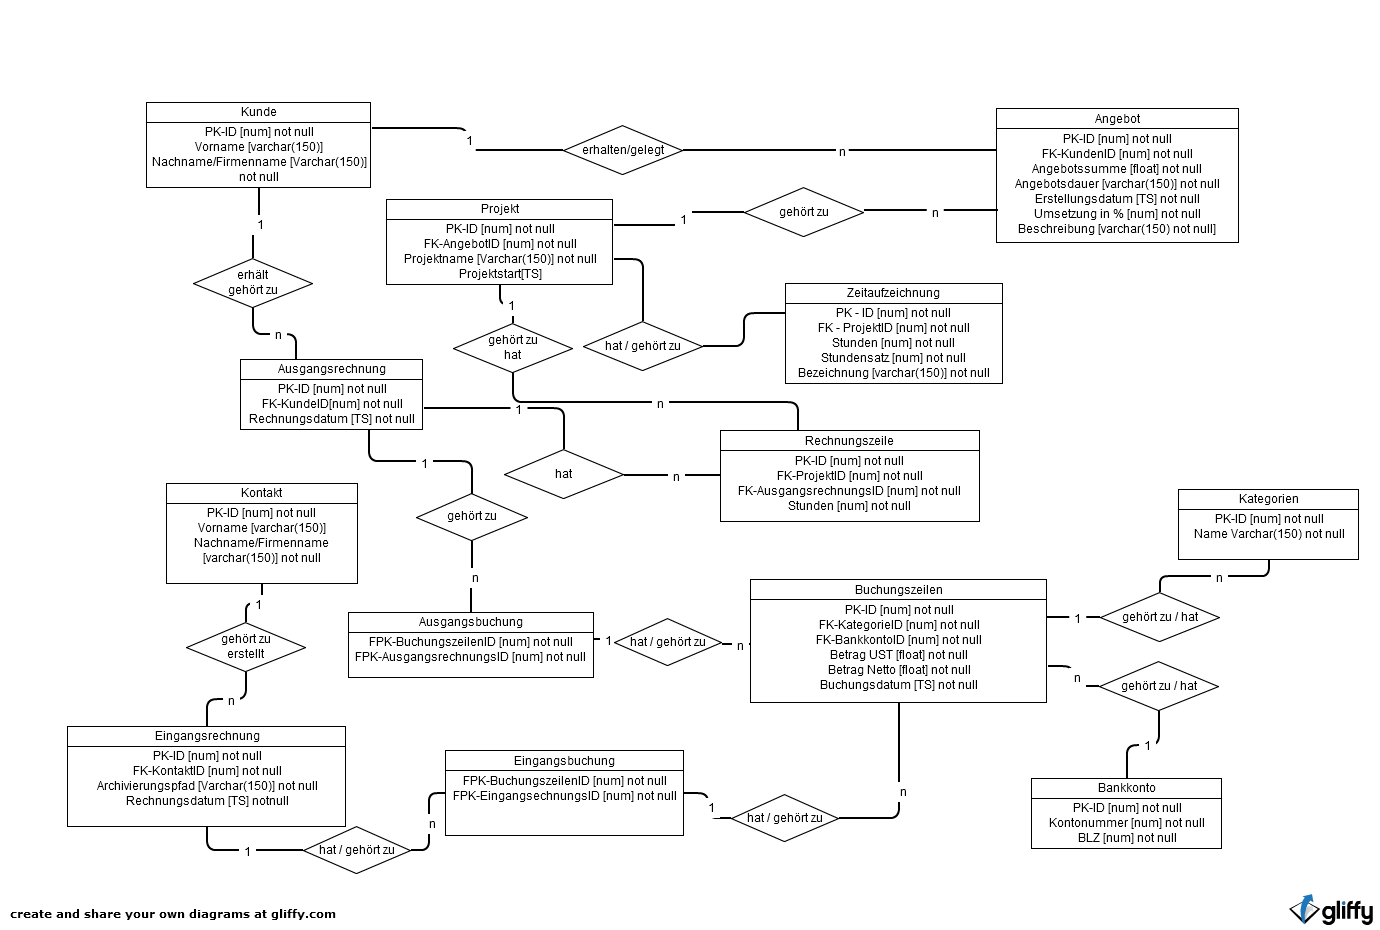
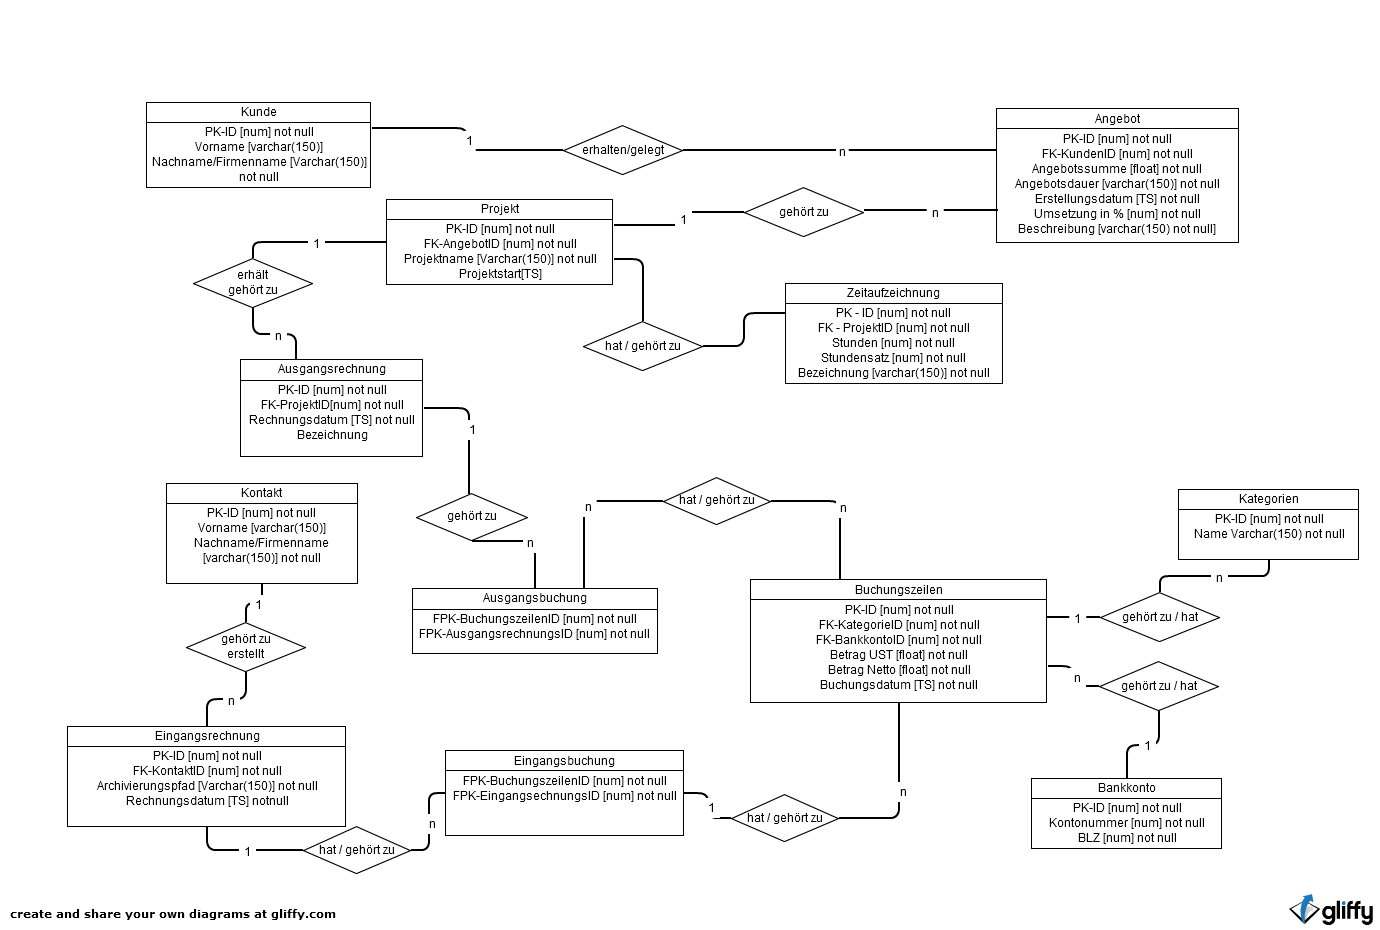
Implements GUI logic for saving a new Ausgangsrechnung to the database

diff --git a/EPU-Backoffice/EPU-Backoffice Panels/rechnungsTab.Designer.cs b/EPU-Backoffice/EPU-Backoffice Panels/rechnungsTab.Designer.cs
@@ -33,7 +33,7 @@
             this.rechnungAusgangTab = new System.Windows.Forms.TabPage();
             this.unpaidBalanceTextBox = new System.Windows.Forms.TextBox();
             this.label35 = new System.Windows.Forms.Label();
-            this.ausgangsrechnungComboBox = new System.Windows.Forms.ComboBox();
+            this.projekteComboBox = new System.Windows.Forms.ComboBox();
             this.ausgangsrechnungDataGridView = new System.Windows.Forms.DataGridView();
             this.ZeitID = new System.Windows.Forms.DataGridViewTextBoxColumn();
             this.ProjektID = new System.Windows.Forms.DataGridViewTextBoxColumn();
@@ -92,6 +92,7 @@
             this.button6 = new System.Windows.Forms.Button();
             this.dateTimePicker5 = new System.Windows.Forms.DateTimePicker();
             this.dateTimePicker4 = new System.Windows.Forms.DateTimePicker();
+            this.ausgangsrechnungMsgLabel = new System.Windows.Forms.Label();
             this.rechnungsTabControl.SuspendLayout();
             this.rechnungAusgangTab.SuspendLayout();
             ((System.ComponentModel.ISupportInitialize)(this.ausgangsrechnungDataGridView)).BeginInit();
@@ -119,9 +120,10 @@
             // rechnungAusgangTab
             // 
             this.rechnungAusgangTab.BackColor = System.Drawing.Color.WhiteSmoke;
+            this.rechnungAusgangTab.Controls.Add(this.ausgangsrechnungMsgLabel);
             this.rechnungAusgangTab.Controls.Add(this.unpaidBalanceTextBox);
             this.rechnungAusgangTab.Controls.Add(this.label35);
-            this.rechnungAusgangTab.Controls.Add(this.ausgangsrechnungComboBox);
+            this.rechnungAusgangTab.Controls.Add(this.projekteComboBox);
             this.rechnungAusgangTab.Controls.Add(this.ausgangsrechnungDataGridView);
             this.rechnungAusgangTab.Controls.Add(this.rechnungstitelTextBox);
             this.rechnungAusgangTab.Controls.Add(this.createRechnungButton);
@@ -151,15 +153,15 @@
             this.label35.TabIndex = 8;
             this.label35.Text = "Offene Projekte";
             // 
-            // ausgangsrechnungComboBox
+            // projekteComboBox
             // 
-            this.ausgangsrechnungComboBox.FormattingEnabled = true;
-            this.ausgangsrechnungComboBox.Location = new System.Drawing.Point(20, 16);
-            this.ausgangsrechnungComboBox.Name = "ausgangsrechnungComboBox";
-            this.ausgangsrechnungComboBox.Size = new System.Drawing.Size(121, 21);
-            this.ausgangsrechnungComboBox.TabIndex = 7;
-            this.ausgangsrechnungComboBox.DropDown += new System.EventHandler(this.ausgangsrechnungComboBox_DropDown);
-            this.ausgangsrechnungComboBox.SelectedIndexChanged += new System.EventHandler(this.BindFromExistingZeitaufzeichnungen);
+            this.projekteComboBox.FormattingEnabled = true;
+            this.projekteComboBox.Location = new System.Drawing.Point(20, 16);
+            this.projekteComboBox.Name = "projekteComboBox";
+            this.projekteComboBox.Size = new System.Drawing.Size(121, 21);
+            this.projekteComboBox.TabIndex = 7;
+            this.projekteComboBox.DropDown += new System.EventHandler(this.ausgangsrechnungComboBox_DropDown);
+            this.projekteComboBox.SelectedIndexChanged += new System.EventHandler(this.BindFromExistingZeitaufzeichnungen);
             // 
             // ausgangsrechnungDataGridView
             // 
@@ -227,6 +229,7 @@
             this.createRechnungButton.TabIndex = 3;
             this.createRechnungButton.Text = "Rechnung erstellen";
             this.createRechnungButton.UseVisualStyleBackColor = true;
+            this.createRechnungButton.Click += new System.EventHandler(this.CreateAusgangsrechnung);
             // 
             // label7
             // 
@@ -692,6 +695,16 @@
             this.dateTimePicker4.Size = new System.Drawing.Size(200, 20);
             this.dateTimePicker4.TabIndex = 0;
             // 
+            // ausgangsrechnungMsgLabel
+            // 
+            this.ausgangsrechnungMsgLabel.AutoSize = true;
+            this.ausgangsrechnungMsgLabel.Location = new System.Drawing.Point(17, 160);
+            this.ausgangsrechnungMsgLabel.Name = "ausgangsrechnungMsgLabel";
+            this.ausgangsrechnungMsgLabel.Size = new System.Drawing.Size(76, 13);
+            this.ausgangsrechnungMsgLabel.TabIndex = 25;
+            this.ausgangsrechnungMsgLabel.Text = "MessageLabel";
+            this.ausgangsrechnungMsgLabel.Visible = false;
+            // 
             // rechnungsTab
             // 
             this.AutoScaleDimensions = new System.Drawing.SizeF(6F, 13F);
@@ -722,7 +735,7 @@
         private System.Windows.Forms.TabControl rechnungsTabControl;
         private System.Windows.Forms.TabPage rechnungAusgangTab;
         private System.Windows.Forms.Label label35;
-        private System.Windows.Forms.ComboBox ausgangsrechnungComboBox;
+        private System.Windows.Forms.ComboBox projekteComboBox;
         private System.Windows.Forms.DataGridView ausgangsrechnungDataGridView;
         private System.Windows.Forms.TextBox rechnungstitelTextBox;
         private System.Windows.Forms.Button createRechnungButton;
@@ -782,5 +795,6 @@
         private System.Windows.Forms.DataGridViewTextBoxColumn Bezeichnung;
         private System.Windows.Forms.DataGridViewTextBoxColumn Stunden;
         private System.Windows.Forms.DataGridViewTextBoxColumn Stundensatz;
+        private System.Windows.Forms.Label ausgangsrechnungMsgLabel;
     }
 }

diff --git a/EPU-Backoffice/EPU-Backoffice Panels/rechnungsTab.cs b/EPU-Backoffice/EPU-Backoffice Panels/rechnungsTab.cs
@@ -77,7 +77,7 @@ namespace EPU_Backoffice_Panels
 
                 try
                 {
-                    this.eingangsrechnung.KontaktID = GlobalActions.getIdFromCombobox(kontaktID, this.eingangsrechnungMsgLabel);
+                    this.eingangsrechnung.KontaktID = GlobalActions.GetIdFromCombobox(kontaktID, this.eingangsrechnungMsgLabel);
                 }
                 catch (InvalidInputException)
                 {
@@ -290,12 +290,12 @@ namespace EPU_Backoffice_Panels
         private void BindFromExistingZeitaufzeichnungen(object sender, EventArgs e)
         {
             // only if a value is selected
-            if (this.ausgangsrechnungComboBox.SelectedIndex > 0)
+            if (this.projekteComboBox.SelectedIndex > 0)
             {
                 List<ZeitaufzeichnungTable> results = new List<ZeitaufzeichnungTable>();
                 
                 // get projectID
-                int pID = GlobalActions.getIdFromCombobox(this.ausgangsrechnungComboBox.SelectedValue.ToString(), this.eingangsrechnungMsgLabel);
+                int pID = GlobalActions.GetIdFromCombobox(this.projekteComboBox.SelectedValue.ToString(), this.eingangsrechnungMsgLabel);
                 this.logger.Log(Logger.Level.Info, "Starts searching for Zeitauffassungen with project id " + pID);
 
                 ZeiterfassungsManager loader = new ZeiterfassungsManager();
@@ -326,6 +326,65 @@ namespace EPU_Backoffice_Panels
 
                     this.unpaidBalanceTextBox.Text = sum.ToString();
                 }
+            }
+        }
+
+        /// <summary>
+        /// Creates a new Ausgangsrechnung with the provided parameters
+        /// </summary>
+        /// <param name="sender">The sending button</param>
+        /// <param name="e">The EventArgs</param>
+        private void CreateAusgangsrechnung(object sender, EventArgs e)
+        {
+            AusgangsrechnungTable table = new AusgangsrechnungTable();
+
+            // Get values
+            int projektID = GlobalActions.GetIdFromCombobox(this.projekteComboBox.SelectedValue.ToString(), this.ausgangsrechnungMsgLabel);
+            string unpaidBalanceString = this.unpaidBalanceTextBox.Text;
+            string rechnungstitelString = this.rechnungstitelTextBox.Text;
+
+            double unpaidBalance;
+
+            // Validate values
+            IRule posintval = new PositiveIntValidator();
+            IRule posdoubval = new PositiveDoubleValidator();
+            IRule lnhsv = new LettersNumbersHyphenSpaceValidator();
+            IRule slv = new StringLength150Validator();
+
+            DataBindingFramework.BindFromInt(projektID.ToString(), "ProjektID", this.ausgangsrechnungMsgLabel, false, posintval);
+            unpaidBalance = DataBindingFramework.BindFromDouble(unpaidBalanceString, "Offener Betrag", this.ausgangsrechnungMsgLabel, false, posdoubval);
+            DataBindingFramework.BindFromString(rechnungstitelString, "Rechnungstitel", this.ausgangsrechnungMsgLabel, false, lnhsv, slv);
+
+            // return if errors occured
+            if (this.ausgangsrechnungMsgLabel.Visible)
+            {
+                return;
+            }
+
+            // no errors, send values to business layer
+            RechnungsManager saver = new RechnungsManager();
+
+            try
+            {
+                saver.CreateAusgangsrechnung(projektID, unpaidBalance, rechnungstitelString);
+            }
+            catch (InvalidInputException)
+            {
+                this.logger.Log(Logger.Level.Error, "The business layer returned the provided values for saving a new Ausgangsrechnung with an error.");
+            }
+            catch (SQLiteException ex)
+            {
+                this.logger.Log(Logger.Level.Error, "A serious problem with the database occured while trying to save a new Ausgangsrechnung.");
+                this.logger.Log(Logger.Level.Error, ex.Message);
+                this.ausgangsrechnungMsgLabel.Text = ex.Message;
+                this.ausgangsrechnungMsgLabel.ForeColor = Color.Red;
+                this.ausgangsrechnungMsgLabel.Show();
+            }
+
+            // show success message label (only if saving has been successful)
+            if (!this.ausgangsrechnungMsgLabel.Visible)
+            {
+                GlobalActions.ShowSuccessLabel(this.ausgangsrechnungMsgLabel);
             }
         }
     }

diff --git a/EPU-Backoffice/EPU-Backoffice Panels/Dal/DataBaseManager.cs b/EPU-Backoffice/EPU-Backoffice Panels/Dal/DataBaseManager.cs
@@ -38,9 +38,8 @@ namespace EPU_Backoffice_Panels.Dal
             sb.Append("CREATE TABLE IF NOT EXISTS Projekt (ID INTEGER NOT NULL PRIMARY KEY AUTOINCREMENT, AngebotID INTEGER NOT NULL, Projektname VARCHAR(150) NOT NULL, Projektstart DATETIME NOT NULL); ");
             sb.Append("CREATE TABLE IF NOT EXISTS Zeitaufzeichnung (ID INTEGER NOT NULL PRIMARY KEY AUTOINCREMENT, ProjektID INTEGER NOT NULL, Stunden INTEGER NOT NULL, Bezeichnung VARCHAR(150) NOT NULL, Stundensatz INTEGER NOT NULL); ");
             sb.Append("CREATE TABLE IF NOT EXISTS Angebot (ID INTEGER NOT NULL PRIMARY KEY AUTOINCREMENT, kundenID INTEGER NOT NULL, Angebotssumme FLOAT NOT NULL, Angebotsdauer DATETIME NOT NULL, Erstellungsdatum VARCHAR(150) NOT NULL, Umsetzung INTEGER NOT NULL, Beschreibung VARCHAR(150) NOT NULL); ");
-            sb.Append("CREATE TABLE IF NOT EXISTS Rechnungszeile (ID INTEGER NOT NULL PRIMARY KEY AUTOINCREMENT, ProjektID INTEGER NOT NULL, AusgangsrechnungsID INTEGER NOT NULL,BEzeichnung Varchar(150), Stunden INTEGER NOT NULL, Stundensatz FLOAT NOT NULL); ");
-            sb.Append("CREATE TABLE IF NOT EXISTS Ausgangsrechnung (ID INTEGER NOT NULL PRIMARY KEY AUTOINCREMENT, KundenID INTEGER NOT NULL, Rechnungsdatum TIMESTAMP NOT NULL, Bezeichnung VARCHAR(150) NOT NULL); ");
-            sb.Append("CREATE TABLE IF NOT EXISTS Ausgangsbuchung (BuchungszeilenID INTEGER NOT NULL, AusgangsrechnungsID INTEGER NOT NULL, PRIMARY KEY (BuchungszeilenID, AusgangsrechnungsID)); ");
+            sb.Append("CREATE TABLE IF NOT EXISTS Rechnungszeile (ID INTEGER NOT NULL PRIMARY KEY AUTOINCREMENT, ProjektID INTEGER NOT NULL, AusgangsrechnungsID INTEGER NOT NULL, Bezeichnung Varchar(150), Stunden INTEGER NOT NULL, Stundensatz FLOAT NOT NULL); ");
+            sb.Append("CREATE TABLE IF NOT EXISTS Ausgangsrechnung (ID INTEGER NOT NULL PRIMARY KEY AUTOINCREMENT, ProjektID INTEGER NOT NULL, Rechnungsdatum TIMESTAMP NOT NULL, Bezeichnung VARCHAR(150) NOT NULL); ");
             sb.Append("CREATE TABLE IF NOT EXISTS Eingangsrechnung (ID INTEGER NOT NULL PRIMARY KEY AUTOINCREMENT, KontaktID INTEGER NOT NULL, Rechnungsdatum TIMESTAMP NOT NULL, Archivierungspfad VARCHAR(150) NOT NULL, Bezeichnung VARCHAR(150) NOT NULL); ");
             sb.Append("CREATE TABLE IF NOT EXISTS Eingangsbuchung (BuchungszeilenID INTEGER NOT NULL, EingangsrechnungsID INTEGER NOT NULL, PRIMARY KEY (BuchungszeilenID, EingangsrechnungsID)); ");
             sb.Append("CREATE TABLE IF NOT EXISTS Buchungszeilen (ID INTEGER NOT NULL PRIMARY KEY AUTOINCREMENT, KategorieID INTEGER NOT NULL, BankkontoID INTEGER NOT NULL, BetragUST FLOAT NOT NULL, BetragNetto FLOAT NOT NULL, Buchungsdatum TIMESTAMP NOT NULL, Bezeichnung VARCHAR(150)); ");

diff --git a/EPU-Backoffice/EPU-Backoffice Panels/Dal/Tables/AusgangsrechnungTable.cs b/EPU-Backoffice/EPU-Backoffice Panels/Dal/Tables/AusgangsrechnungTable.cs
@@ -26,14 +26,14 @@ namespace EPU_Backoffice_Panels.Dal.Tables
             set { if (value >= 0) { id = value; } }
         }
 
-        private int kundenID;
+        private int projektID;
         /// <summary>
-        /// Gets or sets foreign key to table Kunde
+        /// Gets or sets unique ID of the connected project
         /// </summary>
-        public int KundenID
+        public int ProjektID
         {
-            get { return kundenID; }
-            set { if (value >= 0) { kundenID = value; } }
+            get { return projektID; }
+            set { if (value >= 0) { projektID = value; } }
         }
 
         private DateTime rechnungsdatum;
@@ -44,6 +44,16 @@ namespace EPU_Backoffice_Panels.Dal.Tables
         {
             get { return rechnungsdatum; }
             set { rechnungsdatum = value; }
+        }
+
+        private DateTime bezeichnung;
+        /// <summary>
+        /// Gets or sets the title of the Ausgangsrechnung
+        /// </summary>
+        public DateTime Bezeichnung
+        {
+            get { return bezeichnung; }
+            set { bezeichnung = value; }
         }
     }
 }

diff --git a/EPU-Backoffice/EPU-Backoffice Panels/BL/RechnungsManager.cs b/EPU-Backoffice/EPU-Backoffice Panels/BL/RechnungsManager.cs
@@ -143,5 +143,17 @@ namespace EPU_Backoffice_Panels.BL
                 throw; 
             }
         }
+
+        /// <summary>
+        /// Saves a new Ausgangsrechnung within the database
+        /// </summary>
+        /// <param name="projektID">The connected ProjektID</param>
+        /// <param name="unpaidBalance">The amount of money which the Ausgangsrechnung shall include</param>
+        /// <param name="rechnungstitelString">The title of the Ausgangsrechnung</param>
+        public void CreateAusgangsrechnung(int projektID, double unpaidBalance, string rechnungstitelString)
+        { 
+            // validate input
+            //IRule 
+        }
     }
 }

diff --git a/EPU-Backoffice/EPU-Backoffice Panels/GlobalActions.cs b/EPU-Backoffice/EPU-Backoffice Panels/GlobalActions.cs
@@ -122,7 +122,7 @@ namespace EPU_Backoffice_Panels
         /// 
         /// </summary>
         /// <returns></returns>
-        public static int getIdFromCombobox(string data, Label messages)
+        public static int GetIdFromCombobox(string data, Label messages)
         {
             int id;   
             // if no Kunde has been chosen, set kundenID to -1, which indicates, that it shall not be searched for a certain Kunde

diff --git a/EPU-Backoffice/EPU-Backoffice Panels/projektTab.cs b/EPU-Backoffice/EPU-Backoffice Panels/projektTab.cs
@@ -166,7 +166,7 @@ namespace EPU_Backoffice_Panels
             int id = -1;
             try
             {
-                id = GlobalActions.getIdFromCombobox(kundenID, projektSuchenMessageLabel);
+                id = GlobalActions.GetIdFromCombobox(kundenID, projektSuchenMessageLabel);
                 logger.Log(Logger.Level.Info, "kundenid in projekt search: " + id);
             }
             catch(InvalidInputException)

diff --git a/EPU-Backoffice/EPU-Backoffice Panels/zeitTab.cs b/EPU-Backoffice/EPU-Backoffice Panels/zeitTab.cs
@@ -111,7 +111,7 @@ namespace EPU_Backoffice_Panels
 
             try
             {
-                id = GlobalActions.getIdFromCombobox(projektID, zeiterfassungMsgLabel);
+                id = GlobalActions.GetIdFromCombobox(projektID, zeiterfassungMsgLabel);
             }
             catch
             (

diff --git a/EPU-Backoffice/EPU-Backoffice Panels/angeboteTab.cs b/EPU-Backoffice/EPU-Backoffice Panels/angeboteTab.cs
@@ -262,7 +262,7 @@ namespace EPU_Backoffice_Panels
 
             try
             {
-                id = GlobalActions.getIdFromCombobox(kundenID, angebotSuchenMsgLabel);
+                id = GlobalActions.GetIdFromCombobox(kundenID, angebotSuchenMsgLabel);
             }
             catch
             (
